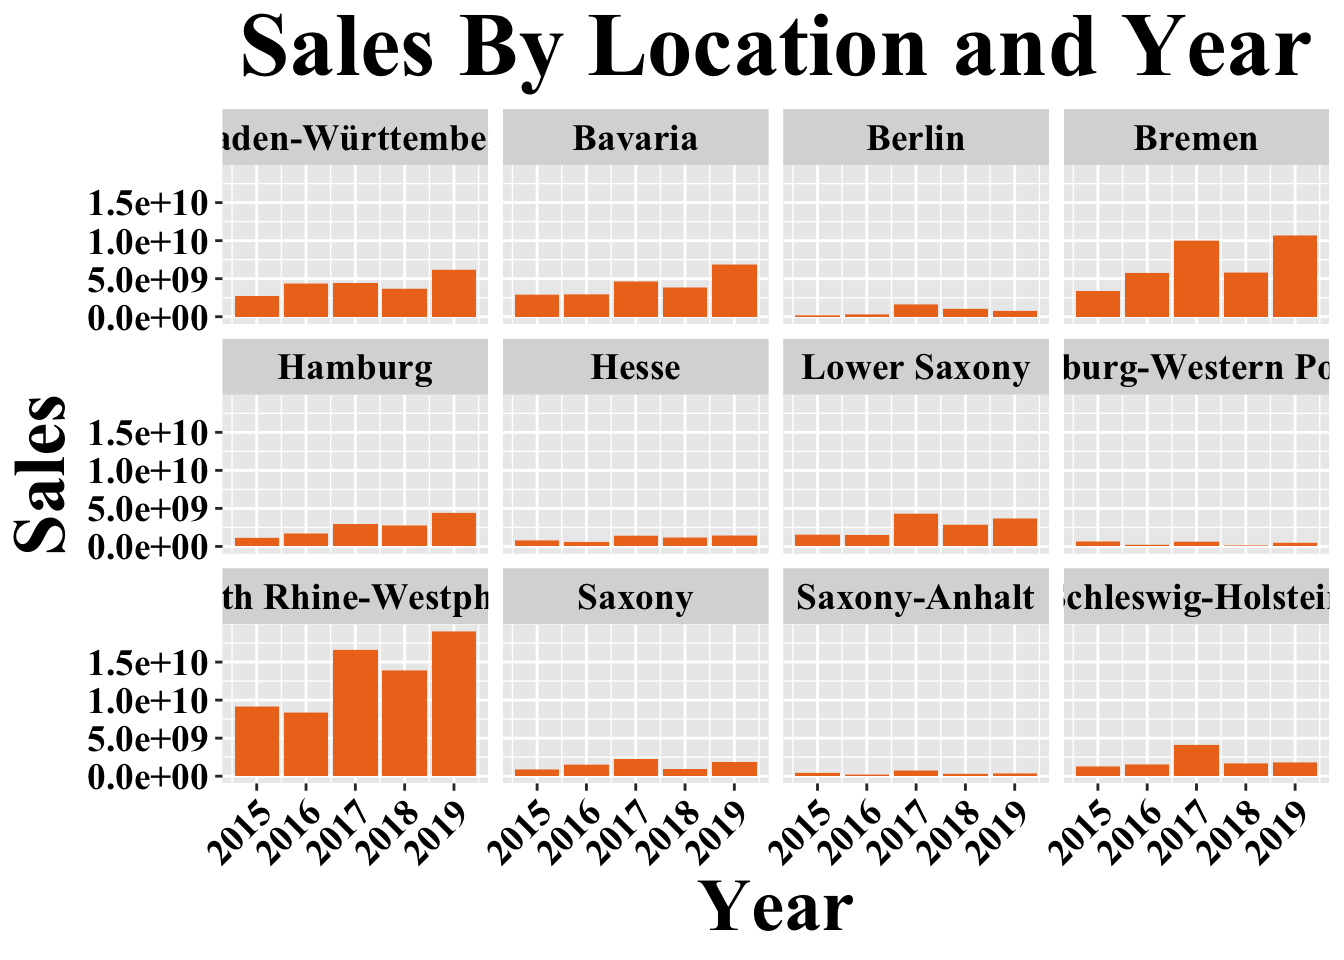
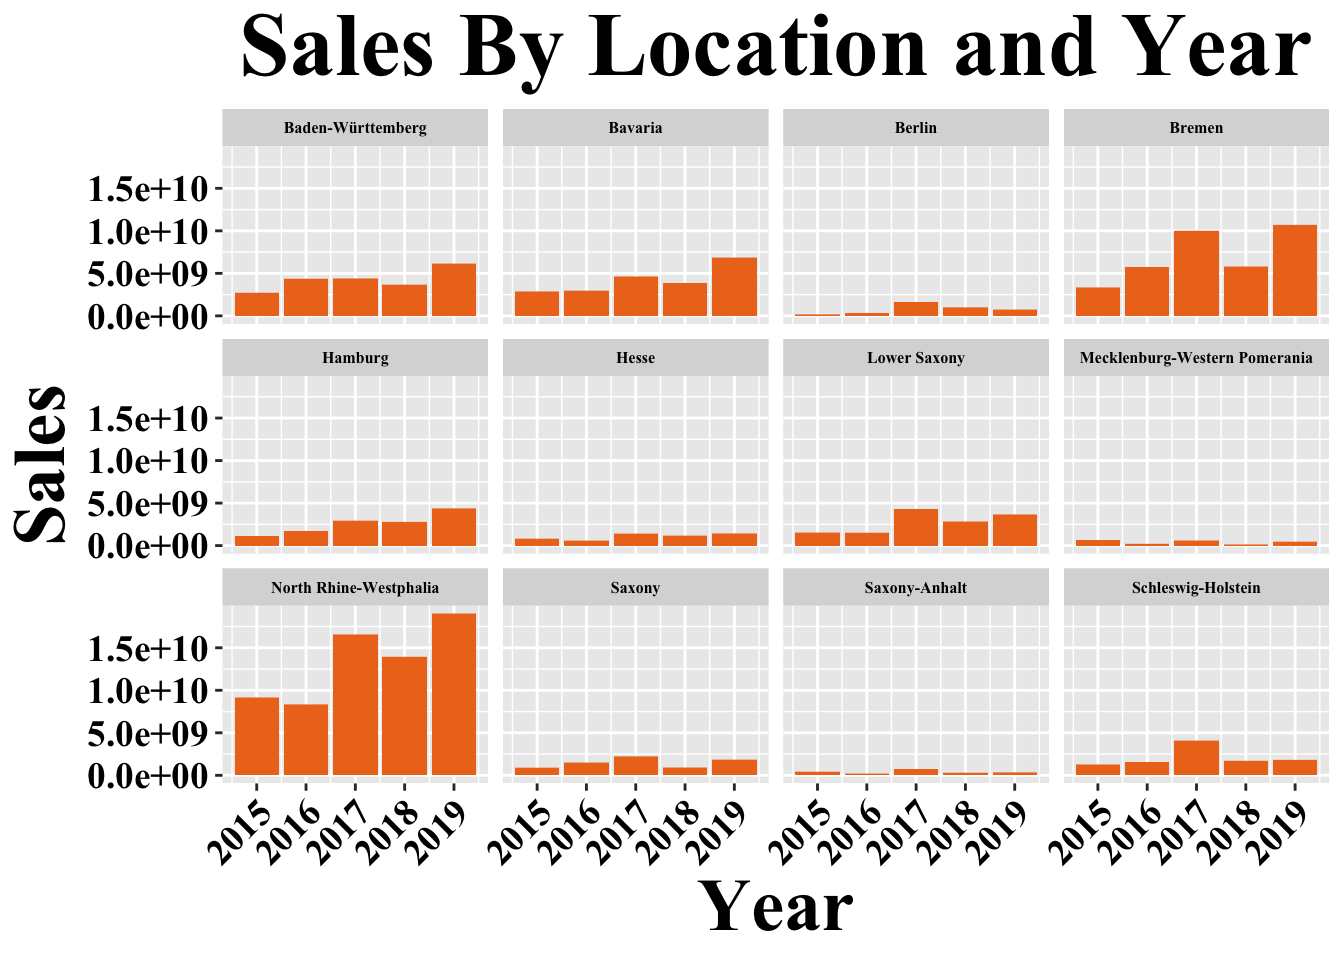
Tidyverse_updated

diff --git a/_site/content/01_journal/01_tidyverse.html b/_site/content/01_journal/01_tidyverse.html
@@ -163,28 +163,17 @@ pre > code.sourceCode > span > a:first-child::before { text-decoration: underlin
   <ul class="collapse">
 <li><a href="#tidyverse" id="toc-tidyverse" class="nav-link active" data-scroll-target="#tidyverse"><span class="header-section-number">1</span> Tidyverse</a></li>
   <li>
-<a href="#challange-nr.-1" id="toc-challange-nr.-1" class="nav-link" data-scroll-target="#challange-nr.-1"><span class="header-section-number">2</span> Challange Nr. 1</a>
+<a href="#challenge-no.-01" id="toc-challenge-no.-01" class="nav-link" data-scroll-target="#challenge-no.-01"><span class="header-section-number">2</span> Challenge No.&nbsp;01</a>
   <ul class="collapse">
 <li><a href="#sales-by-state" id="toc-sales-by-state" class="nav-link" data-scroll-target="#sales-by-state"><span class="header-section-number">2.1</span> Sales by State</a></li>
   </ul>
 </li>
   <li>
-<a href="#challange-nr.-2" id="toc-challange-nr.-2" class="nav-link" data-scroll-target="#challange-nr.-2"><span class="header-section-number">3</span> Challange Nr. 2</a>
+<a href="#challenge-no.-02" id="toc-challenge-no.-02" class="nav-link" data-scroll-target="#challenge-no.-02"><span class="header-section-number">3</span> Challenge No.&nbsp;02</a>
   <ul class="collapse">
 <li><a href="#sales-by-state-by-year" id="toc-sales-by-state-by-year" class="nav-link" data-scroll-target="#sales-by-state-by-year"><span class="header-section-number">3.1</span> Sales by State by Year</a></li>
   </ul>
 </li>
-  <li><a href="#text-formatting" id="toc-text-formatting" class="nav-link" data-scroll-target="#text-formatting"><span class="header-section-number">4</span> Text Formatting</a></li>
-  <li>
-<a href="#headings" id="toc-headings" class="nav-link" data-scroll-target="#headings"><span class="header-section-number">5</span> Headings</a>
-  <ul class="collapse">
-<li><a href="#header-2" id="toc-header-2" class="nav-link" data-scroll-target="#header-2"><span class="header-section-number">5.1</span> Header 2</a></li>
-  </ul>
-</li>
-  <li><a href="#links-images" id="toc-links-images" class="nav-link" data-scroll-target="#links-images"><span class="header-section-number">6</span> Links &amp; Images</a></li>
-  <li><a href="#lists" id="toc-lists" class="nav-link" data-scroll-target="#lists"><span class="header-section-number">7</span> Lists</a></li>
-  <li><a href="#tables" id="toc-tables" class="nav-link" data-scroll-target="#tables"><span class="header-section-number">8</span> Tables</a></li>
-  <li><a href="#source-code" id="toc-source-code" class="nav-link" data-scroll-target="#source-code"><span class="header-section-number">9</span> Source Code</a></li>
   </ul></nav>
     </div>
 <!-- main -->
@@ -217,10 +206,10 @@ pre > code.sourceCode > span > a:first-child::before { text-decoration: underlin
 </header><section id="tidyverse" class="level1" data-number="1"><h1 data-number="1">
 <span class="header-section-number">1</span> Tidyverse</h1>
 <p>Last compiled: 2024-04-22</p>
-<p>I learned the basics of the tidyverse library throughout the chapter. This includes basic data wrangling and data visualization.</p>
-</section><section id="challange-nr.-1" class="level1" data-number="2"><h1 data-number="2">
-<span class="header-section-number">2</span> Challange Nr. 1</h1>
-<p>Using the bike_orderlines_wrangled_tbl and the knowledge, that I acquired during the exercise, the ‘state’ and ‘city’ columns were created, so that the data could be grouped by the state variable only. Sales by location were plotted on a bar plot to gain more insight in their relation.</p>
+<p>Throughout the chapter, I gained proficiency in the fundamental aspects of the tidyverse library, encompassing essential skills in both data wrangling and data visualization.</p>
+</section><section id="challenge-no.-01" class="level1" data-number="2"><h1 data-number="2">
+<span class="header-section-number">2</span> Challenge No.&nbsp;01</h1>
+<p>Utilizing the <strong>‘bike_orderlines_wrangled_tbl’</strong> dataset and the acquired knowledge, I derived the ‘state’ and ‘city’ columns for grouping solely by the ‘state’ variable. Later, I visualized sales by states through a bar plot, to attain further insights into their relationship.</p>
 <section id="sales-by-state" class="level2" data-number="2.1"><h2 data-number="2.1" class="anchored" data-anchor-id="sales-by-state">
 <span class="header-section-number">2.1</span> Sales by State</h2>
 <div class="cell" data-hash="01_tidyverse_cache/html/unnamed-chunk-1_93cf70c24e5de3e59511a85064febbb0">
@@ -304,13 +293,13 @@ pre > code.sourceCode > span > a:first-child::before { text-decoration: underlin
 </div>
 <div class="sourceCode cell-code" id="cb5"><pre class="sourceCode numberSource r number-lines code-with-copy"><code class="sourceCode r"><span id="cb5-1"><a href="#cb5-1"></a><span class="fu">ggsave</span>(<span class="st">"01_tidyverse_files/figure-html/sales_by_state.png"</span>, <span class="at">height =</span> <span class="dv">7</span> , <span class="at">width =</span> <span class="dv">12</span>)</span></code><button title="Copy to Clipboard" class="code-copy-button"><i class="bi"></i></button></pre></div>
 </div>
-<p><strong>According to above figure, North Rhine-Westphalia has the largest revenue.</strong></p>
-</section></section><section id="challange-nr.-2" class="level1" data-number="3"><h1 data-number="3">
-<span class="header-section-number">3</span> Challange Nr. 2</h1>
-<p>Usng the wrangled bike_orderlines_wrangled_tbl, the data frame was grouped by the state and year columns, then the sales in each state were plotted against the year (facet_wrap(~state)), on a bar plot.</p>
+<p><strong>The above figure illustrates that North Rhine-Westphalia has the highest revenue among all states.</strong></p>
+</section></section><section id="challenge-no.-02" class="level1" data-number="3"><h1 data-number="3">
+<span class="header-section-number">3</span> Challenge No.&nbsp;02</h1>
+<p>By utilizing the <strong>‘bike_orderlines_wrangled_tbl’</strong> dataframe, applying grouping based on the ‘state’ and ‘year’ column. Subsequently, then visualized the sales distribution across different states over the years, employing a bar plot with facets arranged by state using <strong>‘facet_wrap(~state)’</strong>.</p>
 <section id="sales-by-state-by-year" class="level2" data-number="3.1"><h2 data-number="3.1" class="anchored" data-anchor-id="sales-by-state-by-year">
 <span class="header-section-number">3.1</span> Sales by State by Year</h2>
-<div class="cell" data-hash="01_tidyverse_cache/html/unnamed-chunk-2_1e8e01fdea51eb7f2c28bdcd91e7eec2">
+<div class="cell" data-hash="01_tidyverse_cache/html/unnamed-chunk-2_7acb542b09fac31c8bc19a5758de036e">
 <div class="sourceCode cell-code" id="cb6"><pre class="sourceCode numberSource r number-lines code-with-copy"><code class="sourceCode r"><span id="cb6-1"><a href="#cb6-1"></a><span class="co"># 5.2 Challenge No. 2 - sales by location and year (facet_wrap) ----</span></span>
 <span id="cb6-2"><a href="#cb6-2"></a></span>
 <span id="cb6-3"><a href="#cb6-3"></a><span class="co">#Step 1 - Manipulate----</span></span>
@@ -362,7 +351,7 @@ pre > code.sourceCode > span > a:first-child::before { text-decoration: underlin
 <span id="cb10-21"><a href="#cb10-21"></a>  <span class="fu">theme</span>(<span class="at">axis.text.x=</span><span class="fu">element_text</span>(<span class="at">colour=</span><span class="st">"black"</span>))<span class="sc">+</span></span>
 <span id="cb10-22"><a href="#cb10-22"></a>  <span class="fu">theme</span>(<span class="at">axis.text.y=</span><span class="fu">element_text</span>(<span class="at">colour=</span><span class="st">"black"</span>))<span class="sc">+</span></span>
 <span id="cb10-23"><a href="#cb10-23"></a>  <span class="fu">theme</span>(<span class="at">plot.title=</span><span class="fu">element_text</span>(<span class="at">hjust=</span><span class="fl">0.5</span>))<span class="sc">+</span></span>
-<span id="cb10-24"><a href="#cb10-24"></a>  <span class="fu">theme</span>(<span class="at">strip.text =</span> <span class="fu">element_text</span>(<span class="at">size =</span> <span class="dv">14</span>, <span class="at">color =</span> <span class="st">"black"</span>))<span class="sc">+</span></span>
+<span id="cb10-24"><a href="#cb10-24"></a>  <span class="fu">theme</span>(<span class="at">strip.text =</span> <span class="fu">element_text</span>(<span class="at">size =</span> <span class="dv">6</span>, <span class="at">color =</span> <span class="st">"black"</span>))<span class="sc">+</span></span>
 <span id="cb10-25"><a href="#cb10-25"></a>  <span class="fu">theme</span>(<span class="at">strip.text =</span> <span class="fu">element_text</span>(<span class="at">face =</span> <span class="st">"bold"</span>))</span>
 <span id="cb10-26"><a href="#cb10-26"></a>plot_2</span></code><button title="Copy to Clipboard" class="code-copy-button"><i class="bi"></i></button></pre></div>
 <div class="cell-output-display">
@@ -371,156 +360,11 @@ pre > code.sourceCode > span > a:first-child::before { text-decoration: underlin
 </figure>
 </div>
 </div>
-<div class="sourceCode cell-code" id="cb11"><pre class="sourceCode numberSource r number-lines code-with-copy"><code class="sourceCode r"><span id="cb11-1"><a href="#cb11-1"></a><span class="fu">ggsave</span>(<span class="st">"01_tidyverse_files/figure-html/Sales_by_State_und_Location.png"</span>, <span class="at">height =</span> <span class="dv">8</span> , <span class="at">width =</span> <span class="dv">15</span>)</span></code><button title="Copy to Clipboard" class="code-copy-button"><i class="bi"></i></button></pre></div>
-</div>
-<div class="callout callout-style-default callout-note callout-titled">
-<div class="callout-header d-flex align-content-center">
-<div class="callout-icon-container">
-<i class="callout-icon"></i>
-</div>
-<div class="callout-title-container flex-fill">
-Note
-</div>
-</div>
-<div class="callout-body-container callout-body">
-<p>You can delete everything in here and start fresh.</p>
-</div>
-</div>
-<p>This is a <code>.qmd</code> file. It is plain text with special features. Any time you write just like this, it will be compiled to normal text in the website. If you put a # in front of your text, it will create a top level-header.</p>
-<p>To learn more about Quarto websites visit <a href="https://quarto.org/docs/websites" class="uri">https://quarto.org/docs/websites</a>.</p>
-</section></section><section id="text-formatting" class="level1" data-number="4"><h1 data-number="4">
-<span class="header-section-number">4</span> Text Formatting</h1>
-<p><em>italics</em> and <strong>bold</strong></p>
-<p>superscript<sup>2</sup> / subscript<sub>2</sub></p>
-<p><del>strikethrough</del></p>
-<p><code>verbatim code</code></p>
-<blockquote class="blockquote">
-<p>Blockquote</p>
-</blockquote>
-</section><section id="headings" class="level1" data-number="5"><h1 data-number="5">
-<span class="header-section-number">5</span> Headings</h1>
-<section id="header-2" class="level2" data-number="5.1"><h2 data-number="5.1" class="anchored" data-anchor-id="header-2">
-<span class="header-section-number">5.1</span> Header 2</h2>
-<section id="header-3" class="level3"><h3 class="anchored" data-anchor-id="header-3">Header 3</h3>
-<section id="header-4" class="level4"><h4 class="anchored" data-anchor-id="header-4">Header 4</h4>
-<section id="header-5" class="level5"><h5 class="anchored" data-anchor-id="header-5">Header 5</h5>
-<section id="header-6" class="level6"><h6 class="anchored" data-anchor-id="header-6">Header 6</h6>
-</section></section></section></section></section></section><section id="links-images" class="level1" data-number="6"><h1 data-number="6">
-<span class="header-section-number">6</span> Links &amp; Images</h1>
-<p><a href="https://quarto.org" class="uri">https://quarto.org</a></p>
-<p><a href="https://quarto.org">Quarto</a></p>
-<div class="quarto-figure quarto-figure-center">
-<figure class="figure"><p><img src="../../assets/img/elephant.png" class="img-fluid figure-img"></p>
-<figcaption class="figure-caption">Caption</figcaption></figure>
-</div>
-<div class="quarto-figure quarto-figure-center">
-<figure class="figure"><p><a href="https://quarto.org"><img src="../../assets/img/elephant.png" class="img-fluid figure-img"></a></p>
-<figcaption class="figure-caption">Caption</figcaption></figure>
-</div>
-<div class="quarto-figure quarto-figure-center">
-<figure class="figure"><p><a href="https://quarto.org" title="An elephant"><img src="../../assets/img/elephant.png" class="img-fluid figure-img"></a></p>
-<figcaption class="figure-caption">Caption</figcaption></figure>
-</div>
-</section><section id="lists" class="level1" data-number="7"><h1 data-number="7">
-<span class="header-section-number">7</span> Lists</h1>
-<ul>
-<li>
-<p>unordered list</p>
-<ul>
-<li>sub-item 1</li>
-<li>sub-item 2
-<ul>
-<li>sub-sub-item 1</li>
-</ul>
-</li>
-</ul>
-</li>
-<li>
-<p>item 2</p>
-<p>Continued (indent 4 spaces)</p>
-</li>
-</ul>
-<ol type="1">
-<li>ordered list</li>
-<li>item 2
-<ol type="i">
-<li>sub-item 1
-<ol type="A">
-<li>sub-sub-item 1</li>
-</ol>
-</li>
-</ol>
-</li>
-</ol>
-<ol class="example" type="1">
-<li>A list whose numbering</li>
-</ol>
-<p>continues after</p>
-<ol start="2" class="example" type="1">
-<li>an interruption</li>
-</ol></section><section id="tables" class="level1" data-number="8"><h1 data-number="8">
-<span class="header-section-number">8</span> Tables</h1>
-<table class="table">
-<thead><tr class="header">
-<th style="text-align: right;">Right</th>
-<th style="text-align: left;">Left</th>
-<th>Default</th>
-<th style="text-align: center;">Center</th>
-</tr></thead>
-<tbody>
-<tr class="odd">
-<td style="text-align: right;">12</td>
-<td style="text-align: left;">12</td>
-<td>12</td>
-<td style="text-align: center;">12</td>
-</tr>
-<tr class="even">
-<td style="text-align: right;">123</td>
-<td style="text-align: left;">123</td>
-<td>123</td>
-<td style="text-align: center;">123</td>
-</tr>
-<tr class="odd">
-<td style="text-align: right;">1</td>
-<td style="text-align: left;">1</td>
-<td>1</td>
-<td style="text-align: center;">1</td>
-</tr>
-</tbody>
-</table></section><section id="source-code" class="level1" data-number="9"><h1 data-number="9">
-<span class="header-section-number">9</span> Source Code</h1>
-<p>Use ``` to delimit blocks of source code:</p>
-<pre><code>code</code></pre>
-<p>Add a language to syntax highlight code blocks:</p>
-<div class="cell" data-hash="01_tidyverse_cache/html/unnamed-chunk-3_ea0224be7fc62eb4352471a8df9e87c8">
-<div class="sourceCode cell-code" id="cb13"><pre class="sourceCode numberSource r number-lines code-with-copy"><code class="sourceCode r"><span id="cb13-1"><a href="#cb13-1"></a><span class="dv">1</span> <span class="sc">+</span> <span class="dv">1</span></span></code><button title="Copy to Clipboard" class="code-copy-button"><i class="bi"></i></button></pre></div>
-<div class="cell-output cell-output-stdout">
-<pre><code>#&gt; [1] 2</code></pre>
-</div>
-</div>
-<div class="cell" data-hash="01_tidyverse_cache/html/unnamed-chunk-4_0da12fefc6e57fa0f0df4e2571fe3f5a">
-<div class="sourceCode cell-code" id="cb15"><pre class="sourceCode numberSource r number-lines code-with-copy"><code class="sourceCode r"><span id="cb15-1"><a href="#cb15-1"></a>cars</span></code><button title="Copy to Clipboard" class="code-copy-button"><i class="bi"></i></button></pre></div>
-<div class="cell-output-display">
-
-<div data-pagedtable="false">
-  <script data-pagedtable-source="" type="application/json">
-{"columns":[{"label":["speed"],"name":[1],"type":["dbl"],"align":["right"]},{"label":["dist"],"name":[2],"type":["dbl"],"align":["right"]}],"data":[{"1":"4","2":"2"},{"1":"4","2":"10"},{"1":"7","2":"4"},{"1":"7","2":"22"},{"1":"8","2":"16"},{"1":"9","2":"10"},{"1":"10","2":"18"},{"1":"10","2":"26"},{"1":"10","2":"34"},{"1":"11","2":"17"},{"1":"11","2":"28"},{"1":"12","2":"14"},{"1":"12","2":"20"},{"1":"12","2":"24"},{"1":"12","2":"28"},{"1":"13","2":"26"},{"1":"13","2":"34"},{"1":"13","2":"34"},{"1":"13","2":"46"},{"1":"14","2":"26"},{"1":"14","2":"36"},{"1":"14","2":"60"},{"1":"14","2":"80"},{"1":"15","2":"20"},{"1":"15","2":"26"},{"1":"15","2":"54"},{"1":"16","2":"32"},{"1":"16","2":"40"},{"1":"17","2":"32"},{"1":"17","2":"40"},{"1":"17","2":"50"},{"1":"18","2":"42"},{"1":"18","2":"56"},{"1":"18","2":"76"},{"1":"18","2":"84"},{"1":"19","2":"36"},{"1":"19","2":"46"},{"1":"19","2":"68"},{"1":"20","2":"32"},{"1":"20","2":"48"},{"1":"20","2":"52"},{"1":"20","2":"56"},{"1":"20","2":"64"},{"1":"22","2":"66"},{"1":"23","2":"54"},{"1":"24","2":"70"},{"1":"24","2":"92"},{"1":"24","2":"93"},{"1":"24","2":"120"},{"1":"25","2":"85"}],"options":{"columns":{"min":{},"max":[10]},"rows":{"min":[10],"max":[10]},"pages":{}}}
-  </script>
-</div>
-</div>
-</div>
-<div class="cell" data-hash="01_tidyverse_cache/html/unnamed-chunk-5_948e3375f923ea078c575a6983ef8a8e">
-<div class="sourceCode cell-code" id="cb16"><pre class="sourceCode numberSource r number-lines code-with-copy"><code class="sourceCode r"><span id="cb16-1"><a href="#cb16-1"></a><span class="fu">plot</span>(cars)</span></code><button title="Copy to Clipboard" class="code-copy-button"><i class="bi"></i></button></pre></div>
-<div class="cell-output-display">
-<div class="quarto-figure quarto-figure-center">
-<figure class="figure"><p><a href="01_tidyverse_files/figure-html/unnamed-chunk-5-1.png" class="lightbox" data-gallery="quarto-lightbox-gallery-3"><img src="01_tidyverse_files/figure-html/unnamed-chunk-5-1.png" class="img-fluid figure-img" width="672"></a></p>
-</figure>
-</div>
-</div>
+<div class="sourceCode cell-code" id="cb11"><pre class="sourceCode numberSource r number-lines code-with-copy"><code class="sourceCode r"><span id="cb11-1"><a href="#cb11-1"></a><span class="fu">ggsave</span>(<span class="st">"01_tidyverse_files/figure-html/Sales_by_State_und_Location.png"</span>, <span class="at">height =</span> <span class="dv">15</span> , <span class="at">width =</span> <span class="dv">20</span>)</span></code><button title="Copy to Clipboard" class="code-copy-button"><i class="bi"></i></button></pre></div>
 </div>
 
 
-</section></main><!-- /main --><script id="quarto-html-after-body" type="application/javascript">
+</section></section></main><!-- /main --><script id="quarto-html-after-body" type="application/javascript">
 window.document.addEventListener("DOMContentLoaded", function (event) {
   const toggleBodyColorMode = (bsSheetEl) => {
     const mode = bsSheetEl.getAttribute("data-mode");
@@ -869,7 +713,7 @@ window.document.addEventListener("DOMContentLoaded", function (event) {
 });
 </script>
 </div> <!-- /content -->
-<script>var lightboxQuarto = GLightbox({"selector":".lightbox","closeEffect":"zoom","loop":true,"openEffect":"zoom","descPosition":"bottom"});</script>
+<script>var lightboxQuarto = GLightbox({"closeEffect":"zoom","loop":true,"descPosition":"bottom","openEffect":"zoom","selector":".lightbox"});</script>
 
 
 </body></html>

diff --git a/_site/index.html b/_site/index.html
@@ -548,7 +548,7 @@ window.document.addEventListener("DOMContentLoaded", function (event) {
 });
 </script>
 </div> <!-- /content -->
-<script>var lightboxQuarto = GLightbox({"selector":".lightbox","descPosition":"bottom","loop":true,"openEffect":"zoom","closeEffect":"zoom"});</script>
+<script>var lightboxQuarto = GLightbox({"selector":".lightbox","loop":true,"closeEffect":"zoom","descPosition":"bottom","openEffect":"zoom"});</script>
 
 
 
